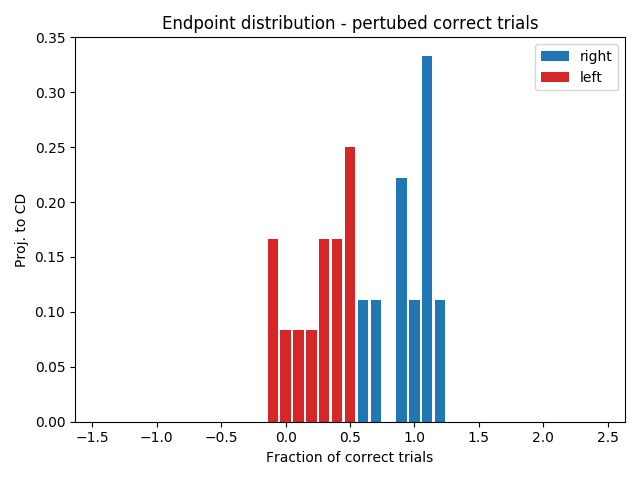
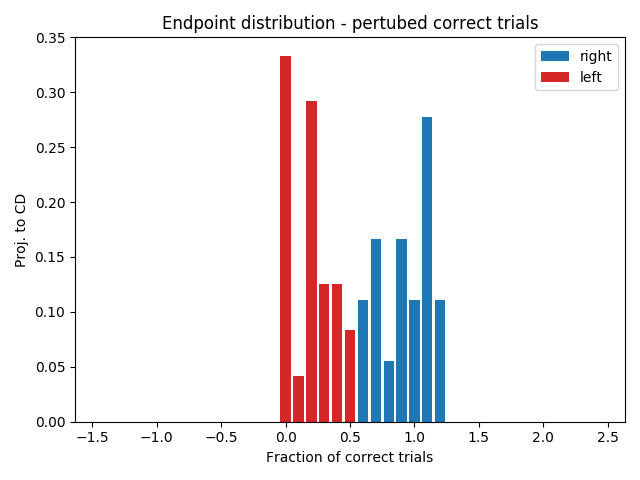
error trials and fluctuations figures.

diff --git a/util_functions.py b/util_functions.py
@@ -222,8 +222,8 @@ def ALM_attractor_figs(r_mat, pv_vec, t_vec, dt, t_stim_start, t_stim_end, t_del
     ax3.axvline((t_stim_end - t_delay_end)*dt/1000, color = "black", linestyle = "--")
     ax3.axvline(0, color = "black", linestyle = "--")
 
-    ax3.set_xlabel('Proj. to CD')
-    ax3.set_ylabel('Time to movement onset (s)')
+    ax3.set_ylabel('Proj. to CD')
+    ax3.set_xlabel('Time to movement onset (s)')
     ax3.set_title('Perturbed correct trials')
     fig3.tight_layout()
     plt.savefig('./figures/perturbed_correct.png')
@@ -258,8 +258,150 @@ def ALM_attractor_figs(r_mat, pv_vec, t_vec, dt, t_stim_start, t_stim_end, t_del
     plt.savefig('./figures/perturbed_correct_trial_hist.png')
     plt.close()
 
+    # Projected Activity - Perturbed error trials
+
+    fig5, ax5 = plt.subplots()
+
+    error_trials_right = [0] # to pass zero perturbation intensity in error trials 
+    error_trials_left = [0]
+    
+    r_right_e = [0]
+    r_left_e = [0]
+
+    r_right_pj_e = [0]
+    r_left_pj_e = [0]
+
+    r_right_pj_e_avg = [0]
+    r_left_pj_e_avg = [0]
+
+    mean_cor_proj = []
+
+    for pv_idx in range(1, len(pv_vec)):
+        error_trials_right.append(np.nonzero(r_mat[pv_idx, right_trials, int(t_delay_end), 0] < \
+             r_mat[pv_idx, right_trials, int(t_delay_end), 1])[0])
+        error_trials_left.append(int(n_trials/2) + np.nonzero(r_mat[pv_idx, left_trials, int(t_delay_end), 0] > \
+             r_mat[pv_idx, left_trials, int(t_delay_end), 1])[0])
+
+        r_right_e.append(np.squeeze(r_mat[pv_idx, error_trials_right[pv_idx], :, 0:2])) 
+        r_left_e.append(np.squeeze(r_mat[pv_idx, error_trials_left[pv_idx], :, 0:2]))
+
+        r_right_pj_e.append(np.zeros((len(error_trials_right[pv_idx]), len(t_vec)))) 
+        r_left_pj_e.append(np.zeros((len(error_trials_left[pv_idx]), len(t_vec))))
+
+        r_right_pj_e_avg.append(np.zeros((len(t_vec), 1)))
+        r_left_pj_e_avg.append(np.zeros((len(t_vec), 1)))
+
+        for idx in range(len(error_trials_right[pv_idx])):
+            r_right_pj_e[pv_idx][idx, :] = (np.matmul(r_right_e[pv_idx][idx][:][:], CD_delay) - left_norm) / \
+                (right_norm - left_norm)
+
+        for idx in range(len(error_trials_left[pv_idx])):
+            r_left_pj_e[pv_idx][idx, :] = (np.matmul(r_left_e[pv_idx][idx][:][:], CD_delay) - left_norm) / \
+                (right_norm - left_norm)
+
+        if len(error_trials_right[pv_idx]) > 1:
+            r_right_pj_e_avg.append(smooth(np.mean(r_right_pj_e[pv_idx], axis = 0), np.round(win_ms/dt)))
+            ax5.plot(t_vec_plt, r_right_pj_e_avg[pv_idx], \
+                color = (0.1, 0.3, (6 - pv_idx)/(len(pv_vec) + 3), (8 - pv_idx)/(len(pv_vec) + 4)))
+        elif len(error_trials_right[pv_idx]) == 1:
+            r_right_pj_e_avg.append(smooth(np.squeeze(r_right_pj_e[pv_idx], axis=0), np.round(win_ms/dt)))
+        
+        if len(error_trials_left[pv_idx]) > 1:
+            r_left_pj_e_avg.append(smooth(np.mean(r_left_pj_e[pv_idx], axis = 0), np.round(win_ms/dt)))
+            ax5.plot(t_vec_plt, r_left_pj_e_avg[pv_idx], \
+                color = ((6 - pv_idx)/(len(pv_vec) + 3), 0.1, 0.4, (8 - pv_idx)/(len(pv_vec) + 4)))
+        elif len(error_trials_left[pv_idx]) == 1:
+            r_left_pj_e_avg.append(smooth(np.squeeze(r_left_pj_e[pv_idx], axis=0), np.round(win_ms/dt)))
+
+        Data_at_each_bin.append(np.zeros((2,2)))
+        Data_at_each_bin[pv_idx + 3][0,0] = r_right_pj_e_avg[pv_idx][bin_3]
+        Data_at_each_bin[pv_idx + 3][0,1] = r_right_pj_e_avg[pv_idx][bin_4]
+        Data_at_each_bin[pv_idx + 3][1,0] = r_left_pj_e_avg[pv_idx][bin_3]
+        Data_at_each_bin[pv_idx + 3][1,1] = r_left_pj_e_avg[pv_idx][bin_4]
+        mean_proj.append(r_right_pj_e_avg[pv_idx])
+        mean_proj.append(r_left_pj_e_avg[pv_idx])
+
+        bin_pre_stim = np.nonzero(t_vec_plt>-2.05)[0][0]
+
+        cor_right = r_right_pj_e[pv_idx][:, bin_pre_stim] > 0.5
+        cor_left = r_left_pj_e[pv_idx][:, bin_pre_stim] < 0.5
+        
+        r_right_temp = smooth(np.mean(r_right_pj_e[pv_idx][cor_right, :], axis = 0), np.round(win_ms/dt))
+        r_left_temp = smooth(np.mean(r_left_pj_e[pv_idx][cor_left, :], axis = 0), np.round(win_ms/dt))
+
+        right_data_tmp = r_right_temp[::int(1/dt)]
+        left_data_tmp = r_left_temp[::int(1/dt)]
+
+        mean_cor_proj.append(right_data_tmp)
+        mean_cor_proj.append(left_data_tmp)
+
+    ax5.plot(t_vec_plt, r_smooth_right_pj[0], color = 'tab:blue', linestyle = '--')
+    ax5.plot(t_vec_plt, r_smooth_left_pj[0], color = 'tab:red', linestyle = '--')
+
+    ax5.axvline((t_stim_start - t_delay_end)*dt/1000, color = "black", linestyle = "--")
+    ax5.axvline((t_stim_end - t_delay_end)*dt/1000, color = "black", linestyle = "--")
+    ax5.axvline(0, color = "black", linestyle = "--")
+
+    ax5.set_ylabel('Proj. to CD')
+    ax5.set_xlabel('Time to movement onset (s)')
+    ax5.set_title('Perturbed error trials')
+    fig5.tight_layout()
+    
+    plt.savefig('./figures/perturbed_error.png')
+    plt.close()
+    
+    # Error trial histogram
+    r_right_pj_e_mat = np.concatenate(r_right_pj_e[1:], axis = 0)
+    r_left_pj_e_mat = np.concatenate(r_left_pj_e[1:], axis = 0)
+
+    hist_pv_rt, bin_pv_rt = np.histogram(r_right_pj_e_mat[:, int(t_delay_end)], bins = \
+        np.arange(-1.5, 2.5, 0.1) + 0.05)
+    hist_pv_rt_center = bin_pv_rt[0:-1] + (bin_pv_rt[1] - bin_pv_rt[0])/2
+    hist_pv_rt_width = (bin_pv_rt[1] - bin_pv_rt[0])*0.8
+    
+    hist_pv_lt, bin_pv_lt = np.histogram(r_left_pj_e_mat[:, int(t_delay_end)], bins = \
+        np.arange(-1.5, 2.5, 0.1) + 0.05)
+    hist_pv_lt_center = bin_pv_lt[0:-1] + (bin_pv_lt[1] - bin_pv_lt[0])/2
+    hist_pv_lt_width = (bin_pv_lt[1] - bin_pv_lt[0])*0.8
+
+    fig6, ax6 = plt.subplots()
+    
+    ax6.bar(hist_pv_rt_center, hist_pv_rt/np.shape(r_right_pj_e_mat)[0], align= 'center', \
+        width = hist_pv_rt_width, color = 'tab:blue', label = 'right')
+    ax6.bar(hist_pv_lt_center, hist_pv_lt/np.shape(r_left_pj_e_mat)[0], align = 'center', \
+        width = hist_pv_lt_width, color = 'tab:red', label = 'left')
+    
+    ax6.set_xlabel('Fraction of error trials')
+    ax6.set_ylabel('Proj. to CD')
+    ax6.set_title('Endpoint distribution - pertubed error trials')
+    ax6.legend()
+    fig6.tight_layout()
+
+    plt.savefig('./figures/perturbed_error_trial_hist.png')
+    plt.close()
+
+    # Trial-to-trial fluctuations
+    norm_var_right = np.std(r_right_pj_c[0], axis=0) / np.std(r_right_pj_c[0][:, int(t_stim_end)], axis=0)
+    norm_var_left = np.std(r_left_pj_c[0], axis=0) / np.std(r_left_pj_c[0][:, int(t_stim_end)], axis=0)
+    
+    fig7, ax7 = plt.subplots()
+
+    ax7.plot(t_vec_plt, norm_var_right, color = 'tab:blue')
+    ax7.plot(t_vec_plt, norm_var_left, color = 'tab:red')
+    ax7.set_xlabel('Time to movement onset (s)')
+    ax7.set_ylabel('Changes in across-trials fluc. of proj. to CD')
+    ax7.set_title('Trial-averaged fluctuations')
+    fig7.tight_layout()
+
+    plt.savefig('./figures/trial_fluctions.png')
+    plt.close()
+    #print(np.shape(r_right_pj_c[0]))
+    # plot change in Delta
+
 
     return [correct_trials_right, correct_trials_left, r_right_pj_c, r_left_pj_c]
+
+
 
 
 def smooth(a,WSZ):

diff --git a/discrete_attractors.py b/discrete_attractors.py
@@ -9,7 +9,7 @@ import util_functions as uf
 
 # Network parameters
 
-N_TRIALS = 10
+N_TRIALS = 20
 
 # Membrane time constant
 TAU_C = 100 # 정확히 뭔지 알아낼 것.
